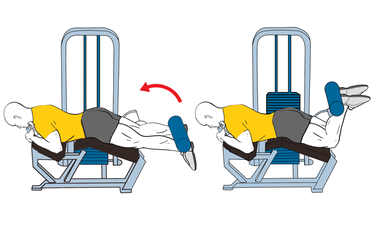
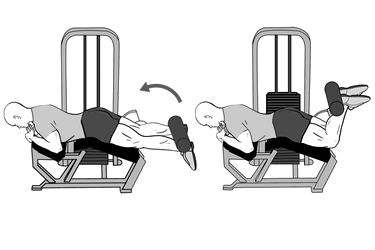
fix: de-color the 3 clashing exercise images; bump SW to v17
Objective scan (channel saturation) found only 3 images were actually colored
and clashing with the clean line-art: plank (34), leg-curl (24), toe-press (22)
— everything else was already ~0 (grayscale line-art). Grayscaled + normalised
those three in place, so they keep the recognizable machine/figure but pick up
the same cyan tint as the rest under the invert filter (no more orange/teal).
Content preserved, no images removed.

SW v16 -> v17 so installed PWAs replace the cached colored versions.

diff --git a/public/sw.js b/public/sw.js
@@ -3,7 +3,7 @@
    asset names. Data lives in IndexedDB, so the app is fully usable offline
    once the shell + chunks have been visited once. */
 
-const VERSION = "phm-v16";
+const VERSION = "phm-v17";
 const RUNTIME = `phm-runtime-${VERSION}`;
 
 self.addEventListener("install", () => {
